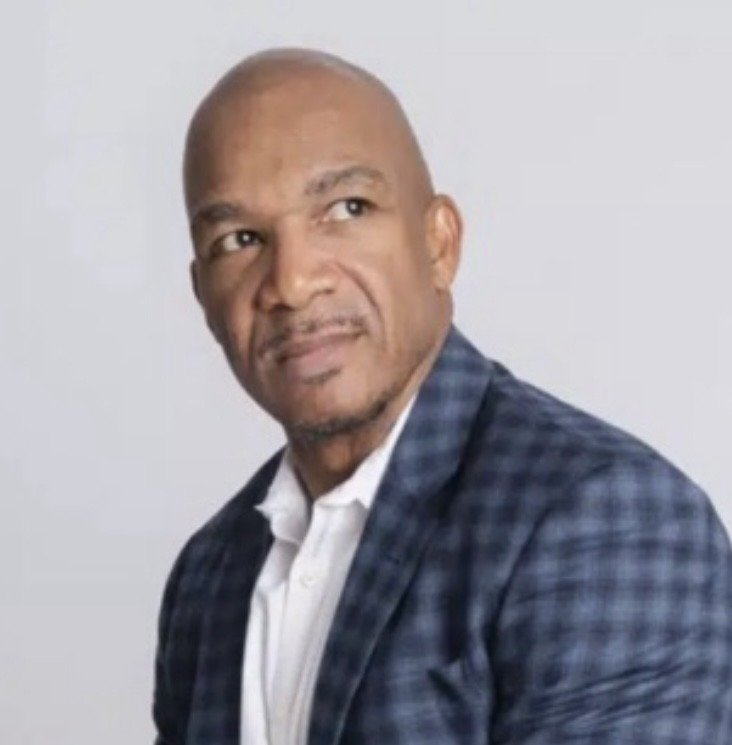
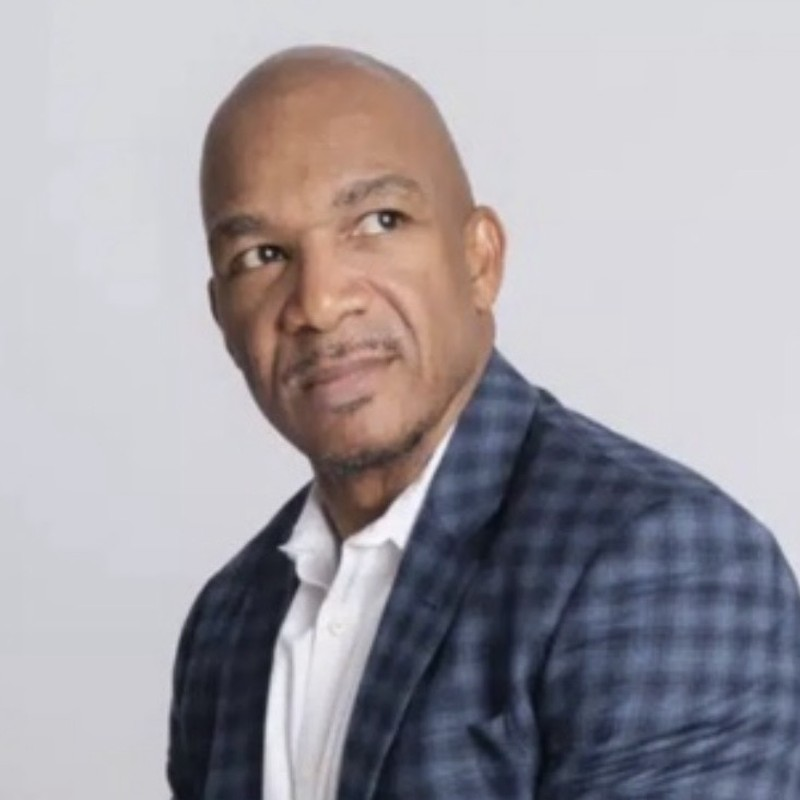
feat: update speaker roles, bios, confirmed status and photos from Google Sheet

diff --git a/src/data/speakersData.ts b/src/data/speakersData.ts
@@ -16,6 +16,7 @@ export const SPEAKERS_DATA: Speaker[] = [
     name: 'Ana Paula Carracedo',
     role: 'Presidente do Conselho',
     company: 'Pacto Global da ONU - Rede Brasil',
+    image: './assets/speakers/ana_paula_carracedo.jpg',
     category: 'Liderança Institucional',
     confirmed: true,
     bio: 'Presidente do Conselho de Administração do Pacto Global da ONU - Rede Brasil. Líder em governança corporativa e sustentabilidade no setor privado.'
@@ -25,33 +26,27 @@ export const SPEAKERS_DATA: Speaker[] = [
     name: 'Sanda Ojiambo',
     role: 'CEO & Diretora Executiva',
     company: 'UN Global Compact (Sede ONU NY)',
+    image: './assets/speakers/sanda_ojiambo.jpg',
     category: 'Liderança Institucional',
     confirmed: true,
     bio: 'CEO e Diretora Executiva do Pacto Global das Nações Unidas. Lidera a maior iniciativa de sustentabilidade corporativa do mundo a partir da sede da ONU em Nova York.'
   },
   {
     id: 'sergio-danese',
-    name: 'Embaixador Sérgio Danese',
+    name: 'Embaixador Sérgio França Danese',
     role: 'Representante Permanente',
     company: 'Missão do Brasil junto às Nações Unidas',
+    image: './assets/speakers/sergio_danese.jpg',
     category: 'Keynote',
     confirmed: true,
-    bio: 'Representante Permanente do Brasil junto à Organização das Nações Unidas em Nova York. Especialista em diplomacia multilateral e relações internacionais.'
-  },
-  {
-    id: 'toni-ballabriga',
-    name: 'Toni Ballabriga',
-    role: 'Global Head Sustainability Intelligence & Advocacy',
-    company: 'BBVA',
-    category: 'Painelista',
-    confirmed: true,
-    bio: 'Líder global de inteligência em sustentabilidade do BBVA. Referência europeia em finanças sustentáveis, taxonomia verde e critérios ESG.'
+    bio: 'Embaixador e Representante Permanente do Brasil junto às Nações Unidas (ONU) em Nova York. Com mais de quatro décadas de carreira diplomática, foi Secretário-Geral das Relações Exteriores e Embaixador do Brasil na Argélia, Argentina, África do Sul e Peru.'
   },
   {
     id: 'eugenio-ricas',
     name: 'Eugênio Ricas',
     role: 'Director, Office of Internal Oversight',
     company: 'Interpol',
+    image: './assets/speakers/eugenio_ricas.jpg',
     category: 'Keynote',
     confirmed: true,
     bio: 'Diretor do Escritório de Supervisão Interna da Interpol. Especialista na investigação de redes de crime organizado e governança de integridade corporativa.'
@@ -60,16 +55,18 @@ export const SPEAKERS_DATA: Speaker[] = [
     id: 'sandra-coutinho',
     name: 'Sandra Coutinho',
     role: 'Jornalista Internacional',
-    company: 'GloboNews / Nova York',
+    company: 'TV Globo',
+    image: './assets/speakers/sandra_coutinho.jpg',
     category: 'Moderador',
     confirmed: true,
-    bio: 'Jornalista e correspondente internacional em Nova York. Acompanha os principais fóruns multilaterais da ONU e a política econômica global.'
+    bio: 'Jornalista e correspondente internacional sênior da TV Globo em Nova York. Acompanha as sessões da Assembleia Geral da ONU, a política externa norte-americana e os desdobramentos socioeconômicos globais há mais de duas décadas.'
   },
   {
     id: 'kaveh-madani',
     name: 'Kaveh Madani',
     role: 'Diretor do Instituto de Água, Meio Ambiente e Saúde',
     company: 'UNU-INWEH (Universidade das Nações Unidas)',
+    image: './assets/speakers/kaveh_madani.jpg',
     category: 'Keynote',
     confirmed: true,
     bio: 'Cientista mundialmente renomado em gestão de recursos hídricos. Diretor do Instituto de Água da Universidade das Nações Unidas.'
@@ -79,42 +76,47 @@ export const SPEAKERS_DATA: Speaker[] = [
     name: 'Radamés Casseb',
     role: 'CEO',
     company: 'AEGEA',
+    image: './assets/speakers/radames_casseb.jpg',
     category: 'Painelista',
     confirmed: true,
-    bio: 'CEO da Aegea Saneamento. Lidera a maior empresa privada de saneamento do Brasil no avanço do ODS 6 e investimentos de infraestrutura hídrica.'
+    bio: 'CEO da Aegea Saneamento, liderando as operações da companhia com sólida experiência em infraestrutura regulada e saneamento no avanço do ODS 6.'
   },
   {
     id: 'calvin-lawrence',
-    name: 'Calvin Lawrence',
+    name: 'Dr. Calvin Lawrence',
     role: 'CEO',
-    company: 'IntegrityFirst.AI',
+    company: 'IntegrityFirst.ai',
+    image: './assets/speakers/calvin_lawrence.jpg',
     category: 'Keynote',
     confirmed: true,
-    bio: 'Autor e pioneiro no desenvolvimento de inteligência artificial responsável. Dedicado à mitigação de viés algorítmico e governança ética da tecnologia.'
+    bio: 'Dr. Calvin D. Lawrence, PhD é CEO da IntegrityFirst.AI e ex-IBM Distinguished Engineer com mais de 30 anos de experiência em IA. Autoridade internacional em governança algorítmica, equidade de dados e inteligência artificial responsável.'
   },
   {
     id: 'erika-george',
     name: 'Erika George',
     role: 'Associate Dean for Equity, Justice & Engagement',
     company: 'Boston University School of Law',
+    image: './assets/speakers/erika_george.jpg',
     category: 'Keynote',
     confirmed: true,
-    bio: 'Professora de Direito da Universidade de Boston e autoridade em Empresas e Direitos Humanos. Assessora governos e empresas na aplicação dos Princípios da ONU.'
+    bio: 'Erika George é Associate Dean for Equity, Justice & Engagement da Boston University School of Law. Autora de Incorporating Rights (Oxford University Press), integra o conselho do Shift — centro de referência nos Princípios Orientadores sobre Empresas e Direitos Humanos da ONU.'
   },
   {
     id: 'luciana-nicola',
     name: 'Luciana Nicola',
     role: 'Diretora de Relações Institucionais e Sustentabilidade',
     company: 'Itaú Unibanco',
+    image: './assets/speakers/luciana_nicola.jpg',
     category: 'Painelista',
     confirmed: true,
-    bio: 'Liderança em sustentabilidade corporativa e investimentos ESG no Itaú Unibanco, impulsionando a finança sustentável no Brasil.'
+    bio: 'Diretora de Relações Institucionais e Sustentabilidade do Itaú Unibanco e vice-presidente do Conselho de Administração do Pacto Global da ONU no Brasil.'
   },
   {
     id: 'silvana-machado',
     name: 'Silvana Machado',
     role: 'Diretora Executiva',
     company: 'Bradesco',
+    image: './assets/speakers/silvana_machado.jpg',
     category: 'Painelista',
     confirmed: true,
     bio: 'Diretora Executiva do Bradesco. Atua no direcionamento de estratégias corporativas, transição ecológica e inovação financeira.'
@@ -122,26 +124,29 @@ export const SPEAKERS_DATA: Speaker[] = [
   {
     id: 'renata-piazzon',
     name: 'Renata Piazzon',
-    role: 'Presidente',
+    role: 'CEO',
     company: 'Instituto Arapyaú',
+    image: './assets/speakers/renata_piazzon.jpg',
     category: 'Moderador',
     confirmed: true,
-    bio: 'Presidente do Instituto Arapyaú e cofacilitadora da Uma Concertação pela Amazônia. Lidera iniciativas de bioeconomia e desenvolvimento territorial.'
+    bio: 'Renata Piazzon é CEO do Instituto Arapyaú. Com 20 anos de experiência em direito ambiental e filantropia estratégica, é cofundadora da rede Uma Concertação pela Amazônia e integra o CDESS da Presidência da República.'
   },
   {
     id: 'bayo-akomolafe',
-    name: 'Bayo Akomolafe',
-    role: 'Distinguished Professor of American Studies',
-    company: 'Hubert Humphrey Institute / The Emergence Network',
+    name: 'Dr. Bayo Akomolafe',
+    role: 'Idealizador & Escritor',
+    company: 'The Emergence Network',
+    image: './assets/speakers/bayo_akomolafe.jpg',
     category: 'Keynote',
     confirmed: true,
-    bio: 'Filósofo, escritor e professor internacionalmente aclamado. Investiga ontologias pós-humanistas, transição de sistemas e novos imaginários para 2030.'
+    bio: 'O Dr. Bayo Akomolafe, idealizador dos conceitos de \'pós-ativismo\', \'transracialidade\' e \'ontofugitividade\', é um palestrante internacionalmente reconhecido, professor, intelectual público, ensaísta e autor de dois livros: These Wilds Beyond our Fences: Letters to My Daughter on Humanity\'s Search for Home (North Atlantic Books) e We Will Tell our Own Story: The Lions of Africa Speak.'
   },
   {
     id: 'guilherme-xavier',
     name: 'Guilherme Xavier',
     role: 'CEO',
     company: 'Pacto Global da ONU - Rede Brasil',
+    image: './assets/speakers/guilherme_xavier.jpg',
     category: 'Liderança Institucional',
     confirmed: true,
     bio: 'CEO do Pacto Global da ONU - Rede Brasil. Responsável por liderar a maior rede local das Américas no engajamento do setor privado.'

diff --git a/src/data/scheduleData.ts b/src/data/scheduleData.ts
@@ -24,7 +24,7 @@ export const SCHEDULE_DATA: SessionItem[] = [
     speakers: ['ana-paula-carracedo', 'sanda-ojiambo'],
     speakerNamesRaw: [
       'Ana Paula Carracedo (Presidente do Conselho, Pacto Global da ONU - Rede Brasil)',
-      'Sanda Ojiambo (CEO do Pacto Global da ONU - TBC)'
+      'Sanda Ojiambo (CEO do Pacto Global da ONU)'
     ],
     ods: [17],
     highlight: true
@@ -38,7 +38,7 @@ export const SCHEDULE_DATA: SessionItem[] = [
     period: 'manhã',
     description: 'Análise do reordenamento global, exigências internacionais e novas regulações que redesenham o ambiente de negócios e abrem oportunidades estratégicas para o Brasil.',
     speakers: ['sergio-danese'],
-    speakerNamesRaw: ['Embaixador Sérgio Danese (Representante Permanente da Missão do Brasil na ONU - TBC)'],
+    speakerNamesRaw: ['Embaixador Sérgio França Danese (Representante Permanente do Brasil junto às Nações Unidas)'],
     ods: [16, 17],
     highlight: true
   },
@@ -66,7 +66,7 @@ export const SCHEDULE_DATA: SessionItem[] = [
     speakers: ['eugenio-ricas', 'sandra-coutinho'],
     speakerNamesRaw: [
       'Eugênio Ricas (Director, Office of Internal Oversight, Interpol)',
-      'Sandra Coutinho (Jornalista Internacional)'
+      'Sandra Coutinho (Jornalista Internacional, TV Globo)'
     ],
     ods: [16, 17],
     highlight: false
@@ -122,7 +122,7 @@ export const SCHEDULE_DATA: SessionItem[] = [
     period: 'tarde',
     description: 'Análise da fronteira entre IA e responsabilidade corporativa: viés algorítmico, governança de dados e direitos humanos digitais.',
     speakers: ['calvin-lawrence'],
-    speakerNamesRaw: ['Calvin Lawrence (CEO IntegrityFirst.AI)'],
+    speakerNamesRaw: ['Dr. Calvin Lawrence (CEO IntegrityFirst.ai)'],
     ods: [8, 16, 18],
     highlight: true
   },
@@ -149,9 +149,9 @@ export const SCHEDULE_DATA: SessionItem[] = [
     description: 'Grandes lideranças empresariais brasileiras compartilham iniciativas práticas e resultados concretos de investimento socioambiental.',
     speakers: ['luciana-nicola', 'silvana-machado', 'renata-piazzon'],
     speakerNamesRaw: [
-      'Luciana Nicola (Diretora de Sustentabilidade, Itaú)',
+      'Luciana Nicola (Diretora de Relações Institucionais e Sustentabilidade do Itaú Unibanco e vice-presidente do conselho administrativo do Pacto Global da ONU no Brasil)',
       'Silvana Machado (Diretora Executiva, Bradesco)',
-      'Moderação: Renata Piazzon (Presidente do Instituto Arapyaú)'
+      'Moderação: Renata Piazzon (CEO do Instituto Arapyaú)'
     ],
     ods: [8, 9, 12, 13, 17],
     highlight: true
@@ -165,7 +165,7 @@ export const SCHEDULE_DATA: SessionItem[] = [
     period: 'tarde',
     description: 'Palestra com visão de futuro sobre a construção de um legado duradouro e a regeneração sistêmica de pessoas, natureza e instituições.',
     speakers: ['bayo-akomolafe'],
-    speakerNamesRaw: ['Bayo Akomolafe (Hubert Humphrey Distinguished Professor of American Studies)'],
+    speakerNamesRaw: ['Dr. Bayo Akomolafe (Idealizador dos conceitos de pós-ativismo, transracialidade e ontofugitividade)'],
     ods: [10, 16, 17],
     highlight: true
   },
